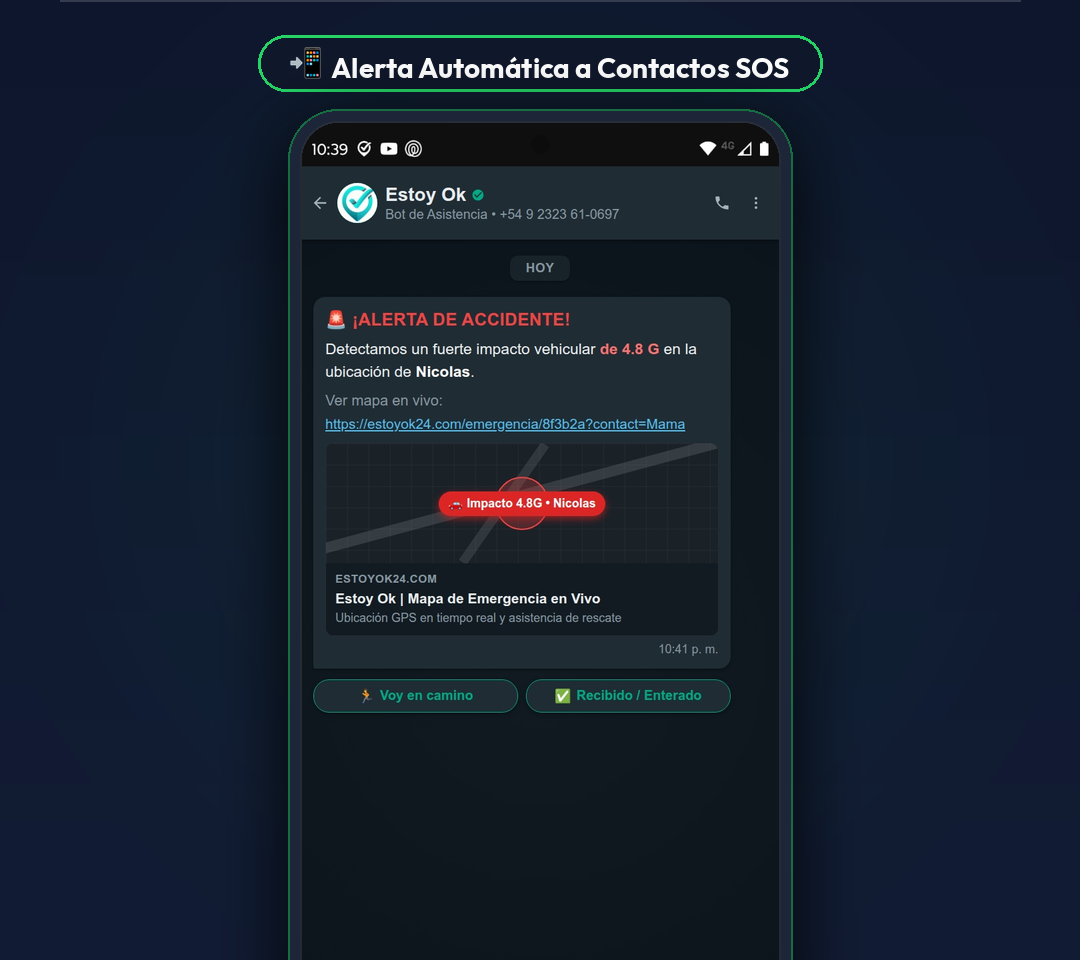
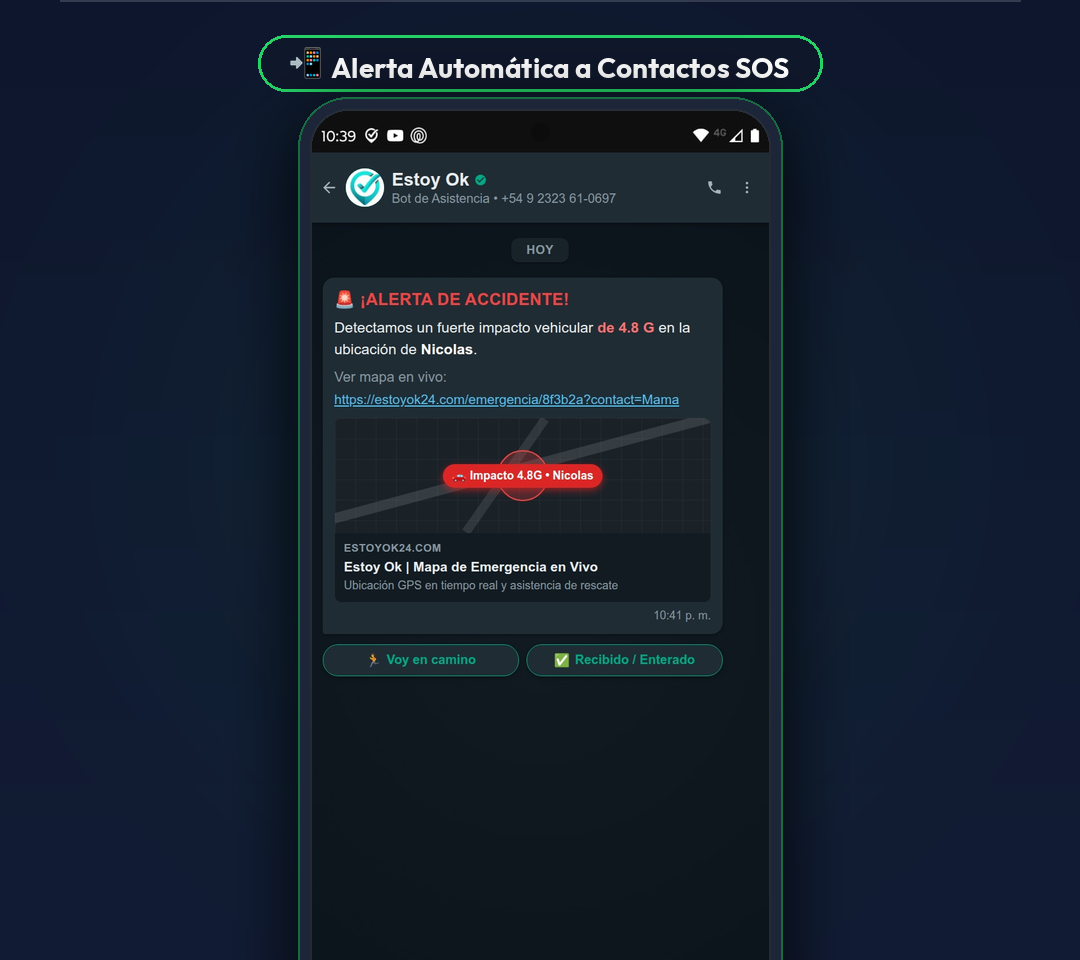
feat(instagram): add directional arrows and specific toma1/toma2 assets for login and nucleo

Changed region(s): [[0.2444, 0.0938, 0.7333, 1.0]]

diff --git a/docs/generate_instagram_story_mockups.py b/docs/generate_instagram_story_mockups.py
@@ -1,4 +1,5 @@
 import os
+import math
 from PIL import Image, ImageDraw, ImageFont, ImageFilter
 
 def create_gradient(width, height, top_color, bottom_color):
@@ -55,6 +56,71 @@ def render_emoji(emoji_char, target_size):
         print(f"Emoji render error for {emoji_char}: {e}")
     return None
 
+def draw_arrow(draw, start, end, color=(0, 229, 255, 255), width=5, arrow_size=16):
+    """Draws a directional arrow with a triangular head."""
+    x0, y0 = start
+    x1, y1 = end
+    draw.line([start, end], fill=color, width=width)
+    angle = math.atan2(y1 - y0, x1 - x0)
+    angle1 = angle + math.pi * 0.82
+    angle2 = angle - math.pi * 0.82
+    p1 = (x1 + arrow_size * math.cos(angle1), y1 + arrow_size * math.sin(angle1))
+    p2 = (x1 + arrow_size * math.cos(angle2), y1 + arrow_size * math.sin(angle2))
+    draw.polygon([end, p1, p2], fill=color)
+
+def apply_annotations(app_img, annotation_type):
+    """Draws sleek focus callout boxes and directional arrows on the screenshot."""
+    if not annotation_type:
+        return app_img
+    
+    img = app_img.convert('RGBA')
+    overlay = Image.new('RGBA', img.size, (0, 0, 0, 0))
+    d = ImageDraw.Draw(overlay)
+    font = ImageFont.truetype('android-native/app/src/main/res/font/outfit_bold.ttf', 28)
+
+    if annotation_type == "login_google_register":
+        cyan = (0, 229, 255, 255)
+        green = (16, 185, 129, 255)
+        # 1. Google Button Focus
+        d.rounded_rectangle([(45, 1055), (675, 1148)], radius=20, outline=cyan, width=5)
+        # Pill 1
+        d.rounded_rectangle([(60, 975), (410, 1030)], radius=16, fill=(15, 23, 42, 245), outline=cyan, width=3)
+        d.text((80, 986), "Opción 1: Con Google", font=font, fill=(255, 255, 255))
+        draw_arrow(d, (230, 1030), (230, 1055), color=cyan, width=5, arrow_size=15)
+
+        # 2. Register Link Focus
+        d.rounded_rectangle([(375, 1230), (615, 1282)], radius=12, outline=green, width=4)
+        # Pill 2
+        d.rounded_rectangle([(60, 1165), (410, 1220)], radius=16, fill=(15, 23, 42, 245), outline=green, width=3)
+        d.text((80, 1176), "Opción 2: Crear Cuenta", font=font, fill=(255, 255, 255))
+        draw_arrow(d, (350, 1215), (375, 1235), color=green, width=5, arrow_size=15)
+
+    elif annotation_type == "nucleo_code":
+        cyan = (0, 229, 255, 255)
+        # Focus on copy code button at top right [3FIRL5LDLO]
+        d.rounded_rectangle([(435, 250), (710, 335)], radius=18, outline=cyan, width=5)
+        d.rounded_rectangle([(60, 260), (410, 315)], radius=16, fill=(15, 23, 42, 245), outline=cyan, width=3)
+        d.text((80, 271), "Tu Código Familiar", font=font, fill=(255, 255, 255))
+        draw_arrow(d, (410, 287), (435, 287), color=cyan, width=5, arrow_size=15)
+
+    elif annotation_type == "estoy_ok_button":
+        green = (16, 185, 129, 255)
+        # Focus on central button
+        d.ellipse([(205, 680), (515, 990)], outline=green, width=6)
+        d.rounded_rectangle([(160, 600), (560, 655)], radius=16, fill=(15, 23, 42, 245), outline=green, width=3)
+        d.text((180, 611), "Tocá acá 1 vez al día", font=font, fill=(255, 255, 255))
+        draw_arrow(d, (360, 655), (360, 680), color=green, width=5, arrow_size=16)
+
+    elif annotation_type == "sos_button":
+        red = (239, 68, 68, 255)
+        # SOS button at top right
+        d.rounded_rectangle([(550, 100), (690, 180)], radius=16, outline=red, width=5)
+        d.rounded_rectangle([(160, 110), (530, 165)], radius=16, fill=(15, 23, 42, 245), outline=red, width=3)
+        d.text((180, 121), "Botón de Pánico SOS", font=font, fill=(255, 255, 255))
+        draw_arrow(d, (530, 137), (550, 137), color=red, width=5, arrow_size=15)
+
+    return Image.alpha_composite(img, overlay).convert('RGB')
+
 def build_instagram_story(
     output_prefix,
     folder_name,
@@ -64,13 +130,14 @@ def build_instagram_story(
     callout_landmark,
     app_image_path,
     accent_color=(16, 185, 129),
+    annotation_type=None,
     export_bottom_slice=True
 ):
     """
     Generates:
     1. Full 1080x1920 Instagram Story template:
        - Top 50% (0..960px): Reserved for Google Flow video overlay with header badge.
-       - Bottom 50% (960..1920px): Floating Phone Mockup + Landmark focus badge.
+       - Bottom 50% (960..1920px): Floating Phone Mockup + Landmark focus badge + focus arrows.
     2. Optional bottom slice (1080x960px) for direct timeline track import.
     """
     W, H = 1080, 1920
@@ -87,11 +154,11 @@ def build_instagram_story(
     font_folder = ImageFont.truetype('android-native/app/src/main/res/font/outfit_bold.ttf', 24)
     font_title = ImageFont.truetype('android-native/app/src/main/res/font/outfit_bold.ttf', 38)
     font_callout = ImageFont.truetype('android-native/app/src/main/res/font/outfit_bold.ttf', 28)
-    font_guide = ImageFont.truetype('android-native/app/src/main/res/font/outfit_medium.ttf', 20)
     
     # 2. Top Half Branding (y: 60..180)
     draw = ImageDraw.Draw(bg)
-    folder_pill_text = f"{folder_name}  •  HISTORIA {story_number}".upper()
+    clean_folder_name = "".join(c for c in folder_name if ord(c) < 128 or c in "ÁÉÍÓÚáéíóúÑñÜü").strip()
+    folder_pill_text = f"{clean_folder_name}  •  HISTORIA {story_number}".upper()
     f_bbox = draw.textbbox((0, 0), folder_pill_text, font=font_folder)
     f_w = f_bbox[2] - f_bbox[0]
     f_h = f_bbox[3] - f_bbox[1]
@@ -116,7 +183,7 @@ def build_instagram_story(
     t_w = t_bbox[2] - t_bbox[0]
     p_draw.text(((W - t_w) // 2, pill_py + f_h + 30), story_title, font=font_title, fill=(255, 255, 255))
     
-    # Video Area Guide indicator (Subtle dashed style or guide text)
+    # Video Area Guide indicator
     p_draw.line([(60, HALF_H), (W - 60, HALF_H)], fill=(255, 255, 255, 40), width=2)
     
     bg = Image.alpha_composite(bg.convert('RGBA'), pill_layer).convert('RGB')
@@ -141,7 +208,7 @@ def build_instagram_story(
     lm_pill_x = (W - lm_pill_w) // 2
     lm_pill_y = HALF_H + 35
     
-    # Pill with neon glowing border
+    # Pill with glowing border
     l_draw.rounded_rectangle(
         [(lm_pill_x, lm_pill_y), (lm_pill_x + lm_pill_w, lm_pill_y + lm_pill_h)],
         radius=lm_pill_h // 2,
@@ -163,15 +230,15 @@ def build_instagram_story(
     
     bg = Image.alpha_composite(bg.convert('RGBA'), landmark_layer).convert('RGB')
     
-    # 4. Device Mockup Frame (y: 1085..1920)
-    app_img = Image.open(app_image_path)
+    # 4. Device Mockup Frame (y: 1065..1920)
+    app_raw = Image.open(app_image_path)
+    app_img = apply_annotations(app_raw, annotation_type)
     
-    # Clean phone width of 480px fits beautifully with ample breathing room
-    phone_w = 480
+    phone_w = 460
     phone_h = int(phone_w * (app_img.size[1] / app_img.size[0]))
     
     phone_x = (W - phone_w) // 2
-    phone_y = lm_pill_y + lm_pill_h + 30
+    phone_y = lm_pill_y + lm_pill_h + 18
     
     border_thick = 12
     screen_radius = 38
@@ -197,7 +264,7 @@ def build_instagram_story(
     frame_layer = Image.new('RGBA', (W, H), (0, 0, 0, 0))
     f_draw = ImageDraw.Draw(frame_layer)
     
-    # Titanium / Graphite bezel
+    # Bezel
     f_draw.rounded_rectangle(
         [(frame_x, frame_y), (frame_x + frame_w, frame_y + frame_h)],
         radius=frame_radius,
@@ -206,12 +273,12 @@ def build_instagram_story(
         width=2
     )
     
-    # App screen content
+    # Screen
     app_resized = app_img.resize((phone_w, phone_h), Image.Resampling.LANCZOS).convert('RGBA')
     app_rounded = round_corners(app_resized, screen_radius)
     frame_layer.paste(app_rounded, (phone_x, phone_y), app_rounded)
     
-    # Front camera punch hole
+    # Camera punch hole
     punch_w, punch_h = 18, 18
     punch_x = (W - punch_w) // 2
     punch_y = phone_y + 14
@@ -246,145 +313,184 @@ def main():
     
     stories = [
         # CARPETA 1: 🚀 EMPEZÁ ACÁ
+        # Historia 1 - Toma 1 (Limpia)
+        {
+            "prefix": f"{dest_dir}/destacada1_h1_toma1_login",
+            "folder": "Empezá Acá",
+            "number": "1/3 (Toma 1)",
+            "title": "Creá tu Cuenta en Estoy Ok",
+            "emoji": "🔐",
+            "landmark": "Acceso Rápido con Google o Registro",
+            "image": "docs/imagen06.jpg",
+            "accent": (16, 185, 129),
+            "annotation": None
+        },
+        # Historia 1 - Toma 2 (Con Flechas Google y Registro)
+        {
+            "prefix": f"{dest_dir}/destacada1_h1_toma2_login",
+            "folder": "Empezá Acá",
+            "number": "1/3 (Toma 2)",
+            "title": "Elegí cómo Acceder a la App",
+            "emoji": "👉",
+            "landmark": "Tocá 'Google' o 'Registrate aquí'",
+            "image": "docs/imagen06.jpg",
+            "accent": (0, 229, 255),
+            "annotation": "login_google_register"
+        },
+        # Historia 1 (General con flechas)
         {
             "prefix": f"{dest_dir}/destacada1_h1_login",
-            "folder": "🚀 Empezá Acá",
+            "folder": "Empezá Acá",
             "number": "1/3",
             "title": "Creá tu Cuenta o Ingresá con Google",
             "emoji": "🔐",
             "landmark": "Acceso Rápido con Google o Registro",
             "image": "docs/imagen06.jpg",
-            "accent": (16, 185, 129) # Emerald
+            "accent": (0, 229, 255),
+            "annotation": "login_google_register"
         },
+        # Historia 2 (Núcleo) con flecha al código
         {
             "prefix": f"{dest_dir}/destacada1_h2_nucleo",
-            "folder": "🚀 Empezá Acá",
+            "folder": "Empezá Acá",
             "number": "2/3",
             "title": "Tu Código de Invitación Familiar",
             "emoji": "👨👩👧",
             "landmark": "Pestaña Familia → Compartí tu Código",
             "image": "docs/captura_crear_nucleo.jpg",
-            "accent": (0, 229, 255) # Electric Teal
+            "accent": (0, 229, 255),
+            "annotation": "nucleo_code"
         },
         {
             "prefix": f"{dest_dir}/destacada1_h3_mapa",
-            "folder": "🚀 Empezá Acá",
+            "folder": "Empezá Acá",
             "number": "3/3",
             "title": "Ubicación en Vivo de tu Familia",
             "emoji": "🟢",
             "landmark": "Pestaña Mapa → Conexión en Vivo y Batería",
             "image": "docs/imagen01.jpg",
-            "accent": (16, 185, 129)
+            "accent": (16, 185, 129),
+            "annotation": None
         },
         
         # CARPETA 2: 🟢 EL BOTÓN "ESTOY OK"
         {
             "prefix": f"{dest_dir}/destacada2_h1_estoy_ok",
-            "folder": "🟢 El Botón Estoy OK",
+            "folder": "El Botón Estoy OK",
             "number": "1/2",
             "title": "Check-in Diario en 1 Solo Toque",
             "emoji": "🟢",
             "landmark": "Pestaña Estoy OK → Botón de Bienestar",
             "image": "docs/imagen02.jpg",
-            "accent": (16, 185, 129)
+            "accent": (16, 185, 129),
+            "annotation": "estoy_ok_button"
         },
         {
             "prefix": f"{dest_dir}/destacada2_h2_alerta_whatsapp",
-            "folder": "🟢 El Botón Estoy OK",
+            "folder": "El Botón Estoy OK",
             "number": "2/2",
             "title": "Aviso Automático por WhatsApp",
             "emoji": "📲",
             "landmark": "Alerta Automática a Contactos SOS",
             "image": "docs/crash_alert_message_whatsapp.jpg",
-            "accent": (37, 211, 102) # WhatsApp Green
+            "accent": (37, 211, 102),
+            "annotation": None
         },
         
         # CARPETA 3: 📍 ZONAS SEGURAS
         {
             "prefix": f"{dest_dir}/destacada3_h1_zonas_crear",
-            "folder": "📍 Zonas Seguras",
+            "folder": "Zonas Seguras",
             "number": "1/2",
             "title": "Llegadas y Salidas Automáticas",
             "emoji": "📍",
             "landmark": "Pestaña Mapa → Selector de Zonas Seguras",
             "image": "docs/zoom.jpg",
-            "accent": (0, 229, 255)
+            "accent": (0, 229, 255),
+            "annotation": None
         },
         {
             "prefix": f"{dest_dir}/destacada3_h2_zonas_notif",
-            "folder": "📍 Zonas Seguras",
+            "folder": "Zonas Seguras",
             "number": "2/2",
             "title": "Avisos Inmediatos al Celular",
             "emoji": "🔔",
             "landmark": "Alerta de Perímetro: Llegada a Casa",
             "image": "docs/captura_notif_zona.jpg",
-            "accent": (16, 185, 129)
+            "accent": (16, 185, 129),
+            "annotation": None
         },
         
         # CARPETA 4: 🚨 CONTACTOS SOS & WHATSAPP
         {
             "prefix": f"{dest_dir}/destacada4_h1_contactos_sos",
-            "folder": "🚨 Contactos SOS",
+            "folder": "Contactos SOS",
             "number": "1/2",
             "title": "Cargá tus Contactos de Emergencia",
             "emoji": "👥",
             "landmark": "Pestaña Estoy OK → Agregar Contacto SOS",
             "image": "docs/captura_modal_contactos.jpg",
-            "accent": (239, 68, 68) # SOS Red
+            "accent": (239, 68, 68),
+            "annotation": None
         },
         {
             "prefix": f"{dest_dir}/destacada4_h2_rescate_web",
-            "folder": "🚨 Contactos SOS",
+            "folder": "Contactos SOS",
             "number": "2/2",
             "title": "Botón de Pánico y Coordinación de Rescate",
             "emoji": "🚨",
             "landmark": "Web de Rescate → Botón 'Voy en camino'",
             "image": "docs/captura_rescate_web.jpg",
-            "accent": (239, 68, 68)
+            "accent": (239, 68, 68),
+            "annotation": "sos_button"
         },
         
         # CARPETA 5: 🚗 EN EL AUTO (SEGURIDAD VIAL)
         {
             "prefix": f"{dest_dir}/destacada5_h1_conduccion",
-            "folder": "🚗 Seguridad Vial",
+            "folder": "Seguridad Vial",
             "number": "1/2",
             "title": "Score Semanal y Hábitos al Volante",
             "emoji": "⭐",
             "landmark": "Pestaña Vehículo → Score de Manejo (70 pts)",
             "image": "docs/imagen03.jpg",
-            "accent": (245, 158, 11) # Amber
+            "accent": (245, 158, 11),
+            "annotation": None
         },
         {
             "prefix": f"{dest_dir}/destacada5_h2_choques",
-            "folder": "🚗 Seguridad Vial",
+            "folder": "Seguridad Vial",
             "number": "2/2",
             "title": "Detección de Choques por Fuerza G",
             "emoji": "⚠",
             "landmark": "Alerta de Impacto 4.80G y Aviso WhatsApp",
             "image": "docs/crash_alert_screen.jpg",
-            "accent": (239, 68, 68)
+            "accent": (239, 68, 68),
+            "annotation": None
         },
         
         # CARPETA 6: 🔋 BATERÍA & PRIVACIDAD
         {
             "prefix": f"{dest_dir}/destacada6_h1_bateria",
-            "folder": "🔋 Batería & Privacidad",
+            "folder": "Batería & Privacidad",
             "number": "1/2",
             "title": "GPS Inteligente de Ultra Bajo Consumo",
             "emoji": "🔋",
             "landmark": "Pestaña Mapa → Nivel de Batería en Vivo",
             "image": "docs/imagen01.jpg",
-            "accent": (16, 185, 129)
+            "accent": (16, 185, 129),
+            "annotation": None
         },
         {
             "prefix": f"{dest_dir}/destacada6_h2_privacidad",
-            "folder": "🔋 Batería & Privacidad",
+            "folder": "Batería & Privacidad",
             "number": "2/2",
             "title": "Cifrado Total y Cero Publicidad",
             "emoji": "🔒",
             "landmark": "Privacidad Garantizada: Sin Anuncios",
             "image": "docs/imagen06.jpg",
-            "accent": (168, 85, 247) # Indigo / Purple
+            "accent": (168, 85, 247),
+            "annotation": None
         }
     ]
     
@@ -399,6 +505,7 @@ def main():
             callout_landmark=s["landmark"],
             app_image_path=s["image"],
             accent_color=s["accent"],
+            annotation_type=s.get("annotation"),
             export_bottom_slice=True
         )
     print("\n¡Todas las piezas generadas exitosamente en docs/instagram_stories_assets/!")
